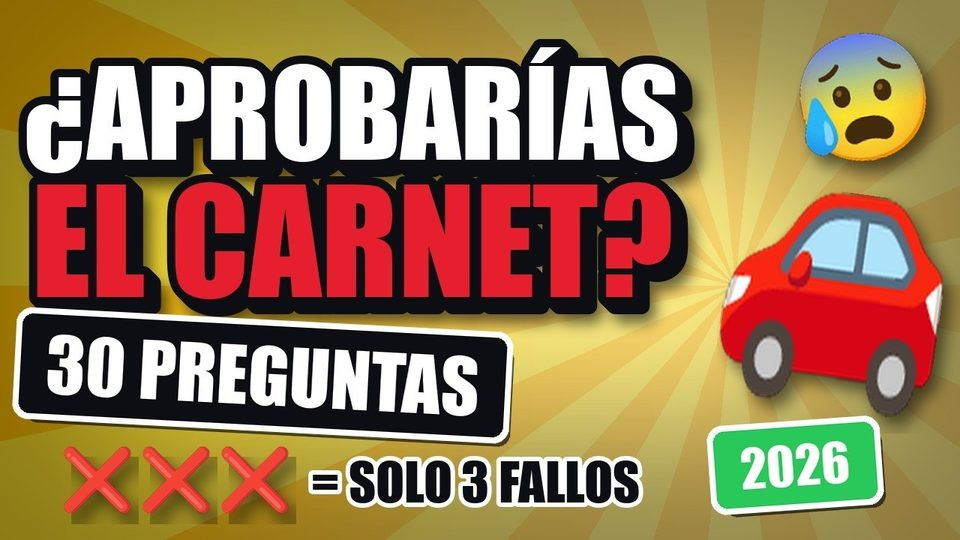
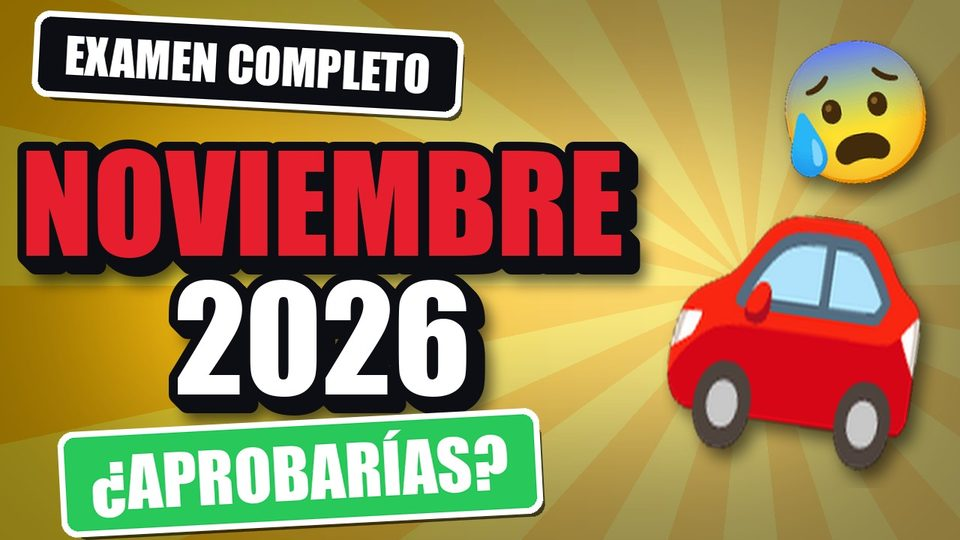
Actualiza la web (16 vídeos, 62 preguntas)

diff --git a/index.html b/index.html
@@ -247,10 +247,10 @@ h1 em{display:block;font-style:normal;color:var(--amarillo)}
     </div>
     <a class="examen" href="https://www.youtube.com/watch?v=kT1_fuwTmi4" data-yt="kT1_fuwTmi4" target="_blank" rel="noopener">
 <img src="img/videos/kT1_fuwTmi4.jpg" width="960" height="540" loading="lazy" alt="">
-<span class="examen-txt"><span class="etiqueta">Examen completo</span><strong>Examen teórico del carnet COMPLETO: 30 preguntas explicadas</strong><span>Duración: 19:39. Cada domingo, un examen nuevo con todas las respuestas explicadas.</span><span class="btn amarillo">▶ Hacer el examen aquí</span></span></a><h3 class="mas-largos">Más vídeos test</h3><ul class="largos">
+<span class="examen-txt"><span class="etiqueta">Examen completo</span><strong>EXAMEN TEÓRICO NOVIEMBRE COMPLETO 🚗 30 preguntas explicadas</strong><span>Duración: 19:39. Cada domingo, un examen nuevo con todas las respuestas explicadas.</span><span class="btn amarillo">▶ Hacer el examen aquí</span></span></a><h3 class="mas-largos">Más vídeos test</h3><ul class="largos">
 <li><a href="https://www.youtube.com/watch?v=hR_IomB4_a8" data-yt="hR_IomB4_a8" target="_blank" rel="noopener">
 <img src="img/videos/hR_IomB4_a8.jpg" width="960" height="540" loading="lazy" alt=""><span class="dur">19:10</span>
-<span class="v-tit">Examen teórico del carnet COMPLETO: 30 preguntas explicadas</span></a></li></ul>
+<span class="v-tit">TEÓRICO PERMISO B 🚗 Examen de conducir COMPLETO de 30 preguntas</span></a></li></ul>
   </div>
 </section>
 

diff --git a/camion/index.html b/camion/index.html
@@ -245,9 +245,9 @@ h1 em{display:block;font-style:normal;color:var(--amarillo)}
       <h2>Exámenes completos en vídeo</h2>
       <p>Hazlo de principio a fin, como el día del examen, y cuenta tus fallos.</p>
     </div>
-    <a class="examen" href="https://www.youtube.com/watch?v=sB1vRS28mEQ" data-yt="sB1vRS28mEQ" target="_blank" rel="noopener">
-<img src="img/videos/sB1vRS28mEQ.jpg" width="960" height="540" loading="lazy" alt="">
-<span class="examen-txt"><span class="etiqueta">Examen completo</span><strong>TEST PERMISO C y C1 🚚 20 preguntas del examen teórico de camión</strong><span>Duración: 15:46. 20 preguntas como el examen real, con todas las respuestas explicadas.</span><span class="btn amarillo">▶ Hacer el examen aquí</span></span></a>
+    <a class="examen" href="https://www.youtube.com/watch?v=4f0gWBLY6Mc" data-yt="4f0gWBLY6Mc" target="_blank" rel="noopener">
+<img src="img/videos/4f0gWBLY6Mc.jpg" width="960" height="540" loading="lazy" alt="">
+<span class="examen-txt"><span class="etiqueta">Examen completo</span><strong>TACÓGRAFO: 10 preguntas del carnet de camión 🚚 ¿Cuántas aciertas?</strong><span>Duración: 8:30. 20 preguntas como el examen real, con todas las respuestas explicadas.</span><span class="btn amarillo">▶ Hacer el examen aquí</span></span></a>
   </div>
 </section>
 
